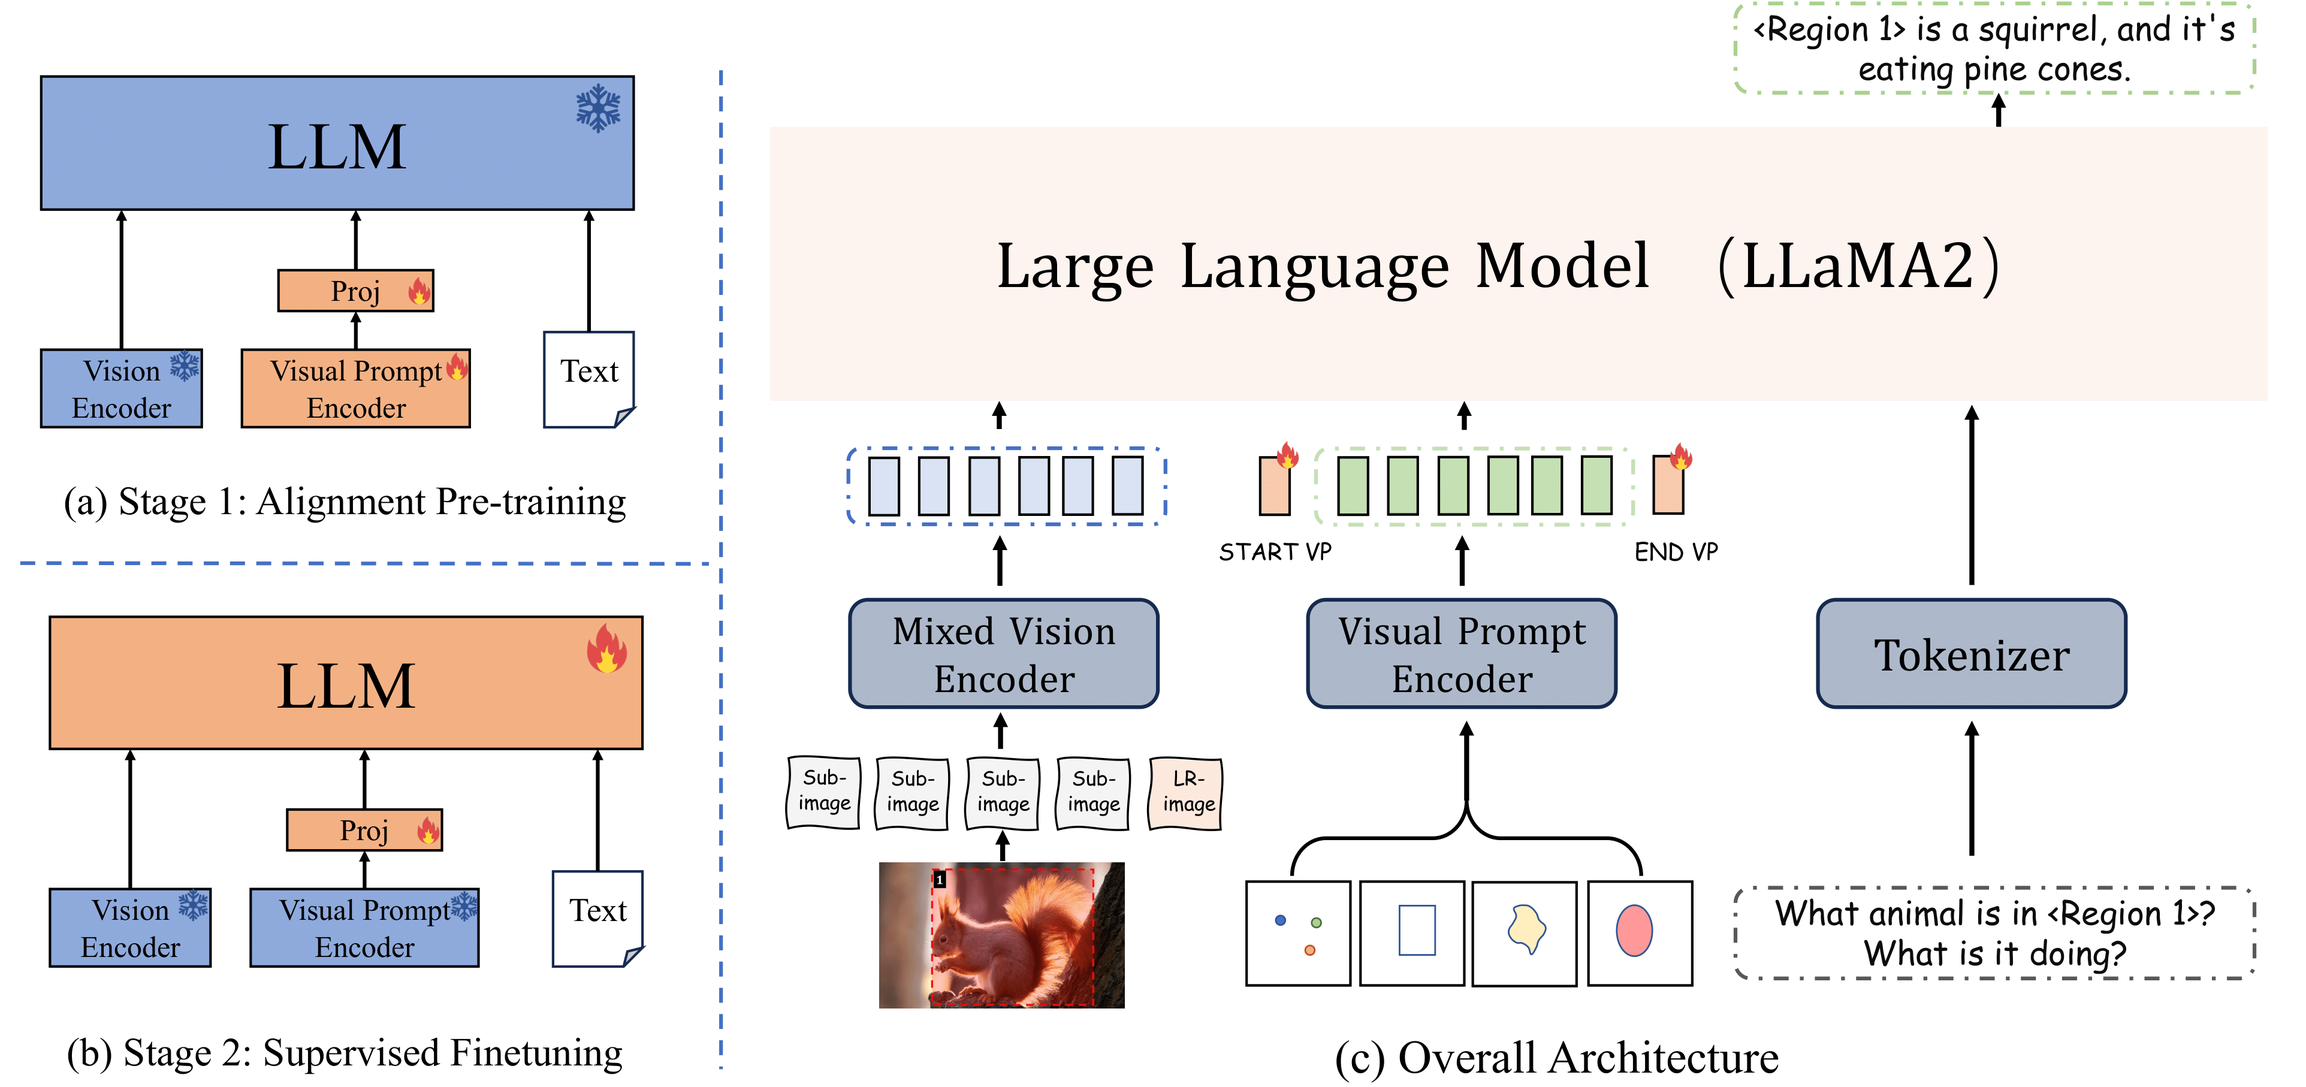
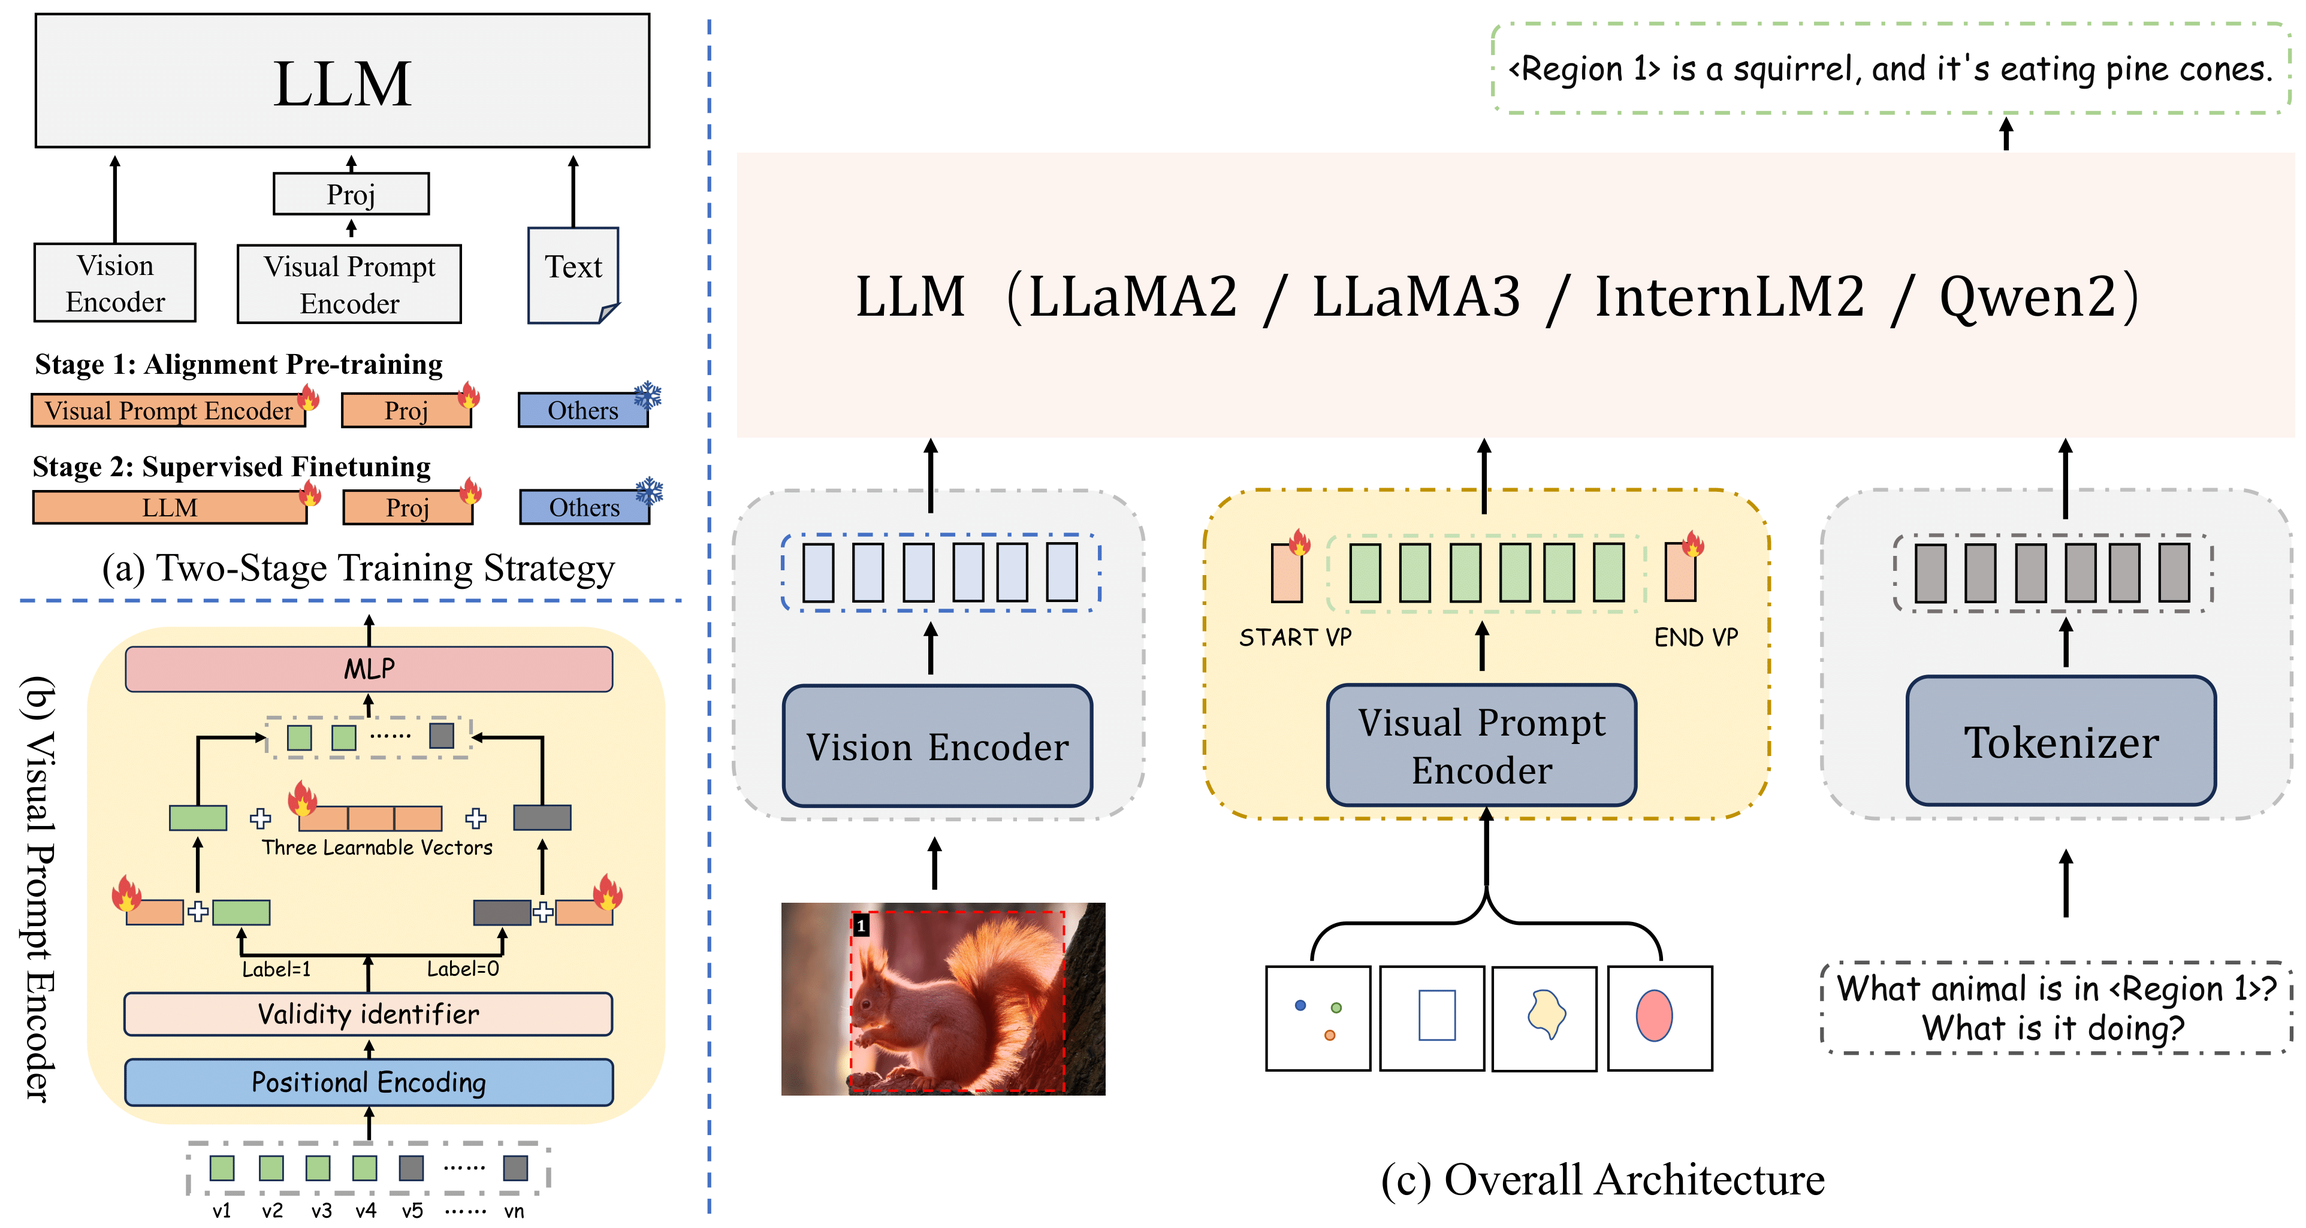
update

diff --git a/index.html b/index.html
@@ -81,12 +81,16 @@
             </span>
           </div>
 
-          <div class="is-size-5 publication-authors">
-            <span class="author-block"><sup>1</sup>Shanghai AI Laboratory</span>
-            <span class="author-block"><sup>2</sup>Peking University</span>
-            <span class="author-block"><sup>3</sup>Xi'an Jiaotong University</span>
-            <span class="author-block"><sup>4</sup>University of Wisconsin-Madison</span>
-            <span class="author-block"><sup>5</sup>The Chinese University of Hong Kong</span>
+          <div class="is-size-5 publication-authors" style="margin-top: 15px;">
+            <div style="margin-bottom: 8px;">
+              <span class="author-block" style="margin-right: 25px;"><sup>1</sup>Shanghai AI Laboratory</span>
+              <span class="author-block" style="margin-right: 25px;"><sup>2</sup>Peking University</span>
+              <span class="author-block"><sup>3</sup>Xi'an Jiaotong University</span>
+            </div>
+            <div>
+              <span class="author-block" style="margin-right: 25px;"><sup>4</sup>University of Wisconsin-Madison</span>
+              <span class="author-block"><sup>5</sup>The Chinese University of Hong Kong</span>
+            </div>
           </div>
 
           <div class="column has-text-centered">
@@ -128,7 +132,7 @@
                   <span class="icon">
                       <i class="far fa-images"></i>
                   </span>
-                  <span>MVDP-Data</span>
+                  <span>MDVP-Data</span>
                   </a>
               </span>
               <!-- MDVP-Bench Link. -->
@@ -138,7 +142,7 @@
                    <span class="icon">
                     <img src="static/images/wrench.svg" alt="Gradio Logo" style="width: 18px; height: 18px;">
                     </span>
-                  <span>MVDP-Bench</span>
+                  <span>MDVP-Bench</span>
                   </a>
               </span>
               <!-- Model Link -->
@@ -214,28 +218,23 @@
         <h2 class="title is-3">Abstract</h2>
         <div class="content has-text-justified">
           <p>
-            The interaction between humans and artificial intelligence (AI) is a crucial factor that 
-            reflects the effectiveness of multimodal large language models (MLLMs). 
-            However, current MLLMs primarily focus on image-level comprehension and limit 
-            interaction to textual instructions, thereby constraining their flexibility in usage 
-            and depth of response. In this paper, we introduce the Draw-and-Understand project: 
-            <strong>a new model</strong>, <strong>a multi-domain dataset</strong>, and <strong>a challenging benchmark</strong> for visual prompting. 
+            We present the <span class="sphinx-v">Draw-and-Understand</span> framework, exploring how to integrate visual prompting understanding capabilities 
+            into Multimodal Large Language Models (MLLMs). Visual prompts allow users to interact through multi-modal instructions,
+            enhancing the models' interactivity and fine-grained image comprehension. In this framework, we propose a general architecture 
+            adaptable to different pre-trained MLLMs, enabling it to recognize various types of visual prompts (such as points, bounding boxes,
+            and free-form shapes) alongside language understanding.
           </p>
           <p>
-            Specifically, we propose <span class="sphinx-v">SPHINX-V</span>, a new end-to-end trained Multimodal Large Language Model (MLLM) 
-            that connects a vision encoder, a visual prompt encoder and an LLM for various visual prompts 
-            (points, bounding boxes, cycle and free-form shape) and language understanding. 
-            To advance visual prompting research for MLLMs, we introduce <span class='mdvp-data'>MDVP-Data</span> and MDVP-Bench. 
-            <span class='mdvp-data'>MDVP-Data</span> features a multi-domain dataset containing 1.6M unique image-visual prompt-text 
-            instruction-following samples, including natural images, document images, OCR images, 
-            mobile screenshots, web screenshots, and multi-panel images. Furthermore, we present MDVP-Bench, 
-            a comprehensive and challenging benchmark to assess a model's capability in understanding visual 
-            prompting instructions.
+            Additionally, we introduce <span class='mdvp-data'>MDVP-Instruct-Data</span>, a multi-domain dataset featuring <b>🔥1.2 million {image, visual prompt, text} triplets</b>, 
+            including natural images, document images, scene text images, mobile/web screenshots, and remote sensing images. 
+            Building on this dataset, we introduce <span class='mdvp-data'>MDVP-Bench</span>, a challenging benchmark designed to 
+            evaluate a model’s ability to understand visual prompting instructions.  
           </p>
           <p>
-            Our experiments demonstrate <span class="sphinx-v">SPHINX-V</span>'s impressive multimodal interaction capabilities through 
-            visual prompting, revealing significant improvements in detailed region description and 
-            question-answering abilities.
+            The experimental results demonstrate that our framework can be easily and effectively applied to various MLLMs, 
+            such as SPHINX-X and LLaVA. After training with <span class='mdvp-data'>MDVP-Instruct-Data</span> and image-level instruction datasets, 
+            our <span class="sphinx-v">VP-MLLM</span> exhibit impressive multimodal interaction capabilities and pixel-level understanding,
+            while maintaining their image-level visual perception performance.
           </p>
         </div>
       </div>
@@ -250,42 +249,63 @@
       <div class="column is-seven-fifths">
         <h2 class="title is-3">
           <img src="static/images/sphinx-v-logo.png" alt="Icon" style="height: 1.1em; vertical-align: middle; margin-right: 0.1em;">
-          <span class="sphinx-v">SPHINX-V</span>: Understanding Arbitrary Format Visual Prompts and Images from Diverse Domains
+          <span class="sphinx-v">VP-MLLM</span>: Understanding Arbitrary Format Visual Prompts and Images from Diverse Domains
         </h2>
         <div class="content has-text-justified">
           <p>
-            <span class="sphinx-v">SPHINX-V</span> demonstrates robust capabilities in recognizing diverse visual prompts and images 
-            across various domains, enabling execution of complex tasks such as Visual Question Answering (VQA), 
-            Optical Character Recognition (OCR), Regional Captioning, and other intricate referring tasks. 
-            This formidable proficiency stems from its simple yet effective model architecture and training 
-            strategies:
+            We will detail the process of integrating visual prompt understanding into pre-trained MLLMs and transforming them 
+            into Visual Prompting MLLMs (<span class="sphinx-v">VP-MLLM</span>), as well as the training strategy designed to enhance alignment and fine-tuning for VP-MLLMs below.
+          </p>
+          <p>
+            For most existing MLLMs, the overall architecture consists of three components: a vision encoder, a tokenizer (text encoder), 
+            and a Large Language Model (LLM). Each modality is processed by its corresponding encoder, and the resulting tokens are concatenated 
+            and fed into the LLM for learning. Similarly, to achieve visual prompting understanding, we incorporate a visual prompt encoder
+            to embed the input visual prompts. This integration allows us to combine the image, visual prompt, and language representations 
+            and forward them collectively to the LLM:
           </p>
           <div style="text-align: center;">
             <img src="static/images/arch-1.png" alt="arch" style="height: auto; width: 100%; display: inline-block;">
           </div>
           <p></p>
           <p>
-            <span class="sphinx-v">SPHINX-V</span> comprises three components: a mixed vision encoder, 
-            a versatile visual prompt encoder, and a large language model (LLM). 
-            Given an image alongside coordinates of specific points or regions and input 
-            instruction language, we perform tokenization and encoding to derive three distinct embeddings: 
-            image embeddings <span class="tex">\( Z_i \)</span>, visual prompt embeddings <span class="tex">\( Z_v \)</span>, 
-            and text embeddings <span class="tex">\( Z_t \)</span>.
-            Subsequently, we employ two projection matrixs to convert <span class="tex">\( Z_i \)</span> and 
-            <span class="tex">\( Z_v \)</span> into 
-            language embedding tokens, aligning them with the word embedding space in the language model. 
-            Finally, we integrate the image, visual prompt, and language representations, 
-            forwarding them collectively to the LLM to attain pixel/region-level understanding capability.
-          </p>
-          <p><span class="sphinx-v">SPHINX-V</span> is trained in two stages:</p>
+            As shown in Figure(b) above, we introduce a simple yet effective visual prompt encoder that focuses on two types of visual prompts: 
+            points and bounding boxes. Initially, the encoder utilizes positional encoding for the coordinates of both 
+            points (center) and boxes (top-left and bottom-right corners). It then adds three distinct learnable embeddings for 
+            each corner and processes them through a linear layer to obtain unified output embeddings. Additionally, we accommodate 
+            a dynamic number of visual prompts as input. We first set a fixed number of visual prompt tokens (16). Based on the 
+            validity of the actual input tokens, we provide both valid and invalid tokens with a set of learnable vectors to
+            help the model discern their effective features. Finally, we employ a linear layer to map the embeddings of
+            different prompt types to the same dimension, thereby unifying the various visual prompt inputs.
+            </p>
+          <p><span class="sphinx-v">VP-MLLM</span> is trained in two stages:</p>
 
               <ul>
                 <li><strong>Stage 1: Image-Visual Prompt-Text Alignment Pre-training.</strong>
-                  <p>By employing a visual prompt encoder, we initially freeze both the pre-trained vision encoder and the pre-trained LLM. We focus on training the features of visual prompts to align with the features of image-visual prompt-text. We implement an MLP as the connector between visual prompts and language to enhance the multimodal prompting capabilities of the model.</p>
+                  <p>
+                    We initially freeze both the pre-trained vision encoder and the LLM, then focus on training the 
+                    features of visual prompts to align with those of the input image and text. Following the approach in LLaVA, 
+                    we implement an MLP to transform the visual prompt tokens into the latent space of the LLM. 
+                    We use open-source detection and segmentation datasets to create our stage 1 training data. 
+                    These datasets include a wide range of objects and label types, such as elements of the 
+                    <i>natural world (e.g., people, animals, objects)</i>, 
+                    <i>remote sensing (e.g., buildings, roads, vehicles, water bodies)</i>, 
+                    <i>document components (e.g., titles, paragraphs, images, tables)</i>,
+                    <i>OCR data (e.g., text recognition), and screenshots (e.g., icons, text, search bars)</i>. 
+                    For point visual prompts, we randomly sample pixels from semantic segmentation images, where each point 
+                    corresponds to a pixellevel label annotation. For box visual prompts, we directly use the ground truth bounding boxes from
+                    detection datasets as inputs, enabling the model to recognize their corresponding labels. With this rich and
+                    diverse data for pre-training, the model is well-equipped for visual prompting and object categorization. 
+                  </p>
                 </li>
                 
                 <li><strong>Stage 2: Multi-Task Supervised Finetuning.</strong>
-                  <p>At this stage, we load the weights trained during stage 1 and keep the vision encoder and visual prompt encoder weights frozen. We then fine-tune the visual prompt projector and the LLM model. Our focus is on enhancing <span class="sphinx-v">SPHINX-V</span>'s ability to accurately interpret user instructions and handle diverse pixel-level understanding tasks, such as detailed captioning, inter-relationship analysis, and complex reasoning.</p>
+                  <p>
+                    At this stage, we load the weights trained from stage 1 and keep the vision encoder and visual 
+                    prompt encoder weights frozen. We then fine-tune the visual prompt projector and the LLM. 
+                    This stage focus on enhancing model’s ability to accurately interpret user instructions and 
+                    handle diverse visual prompting understanding tasks, such as detailed captioning, inter-relationship
+                    analysis, and complex reasoning, while maintain the original robust vision-language global understanding capability. 
+                  </p>
                 </li>
               </ul>
 
@@ -320,7 +340,7 @@
             <p></p>
             <p>
               Above diagram displays the distribution of images drawn from various sources, including nature scenes, 
-              OCR texts, web content, mobile interfaces, documents, and multi-pane graphics. 
+              OCR texts, remote sensing scenes, web content, mobile interfaces, documents, and multi-panel graphics. 
               It also features a sample from the GPT-assisted MDVP dataset, emphasizing the diversity 
               and richness of its point-based and region-based instruction-following data.
             </p>
@@ -412,35 +432,37 @@
           Traditional Evaluating Task
         </h3>
         <p style="text-align: left; margin-bottom: 20px;">
-          In traditional evaluation tasks, <span class="sphinx-v">SPHINX-V</span> significantly 
+          For evaluation, we primarily use two popular MLLMs: SPHINX-X and LLaVA-Next, along with three model sizes: 7B, 8B, and 13B.
+          In both visual prompt-based and traditional tasks, <span class="sphinx-v">VP-MLLM</span> significantly 
           outperforms existing visual-prompt-based methods.
         </p>
         <div class="content has-text-justified">
-          <div class="image-row" style="margin-bottom: 20px;">
-            <div class="image-column">
-              <img src="static/images/ROC.png" alt="ROC" style="width: 95%;">
-              <p>Semantic Similarity and Semantic IoU of ROC(referring object classification) on LVIS and PACO.</p>
-            </div>
-            <div class="image-column">
-              <img src="static/images/OCR.png" alt="OCR" style="width: 95%;">
-              <p>Accuracy of ROC on LVIS and OCR(optical character recognition) on COCO text.</p>
-            </div>
-          </div>
-          <div class="image-row" style="margin-bottom: 20px;">
-            <div class="image-column">
-              <img src="static/images/detail-caption.png" alt="detail caption" style="width: 90%;">
-              <p>Detailed region-level captioning performance on the RefCOCOg validation set. Using GPT-4V for evaluation.</p>
-            </div>
-            <div class="image-column">
-              <img src="static/images/brief-caption.png" alt="brief caption" style="width: 90%;">
-              <p>Brief region captioning performance evaluated on
-                RefCOCOg. Using traditional evaluation metric.</p>
-            </div>
+          <div style="text-align: center; margin-bottom: 20px;">
+            <img src="static/images/exp-table1.png" alt="arch" style="height: auto; width: 90%; display: inline-block;">
+            <p>
+              Results of referring classification on LVIS and PACO, and COCO text. Calculation of Semantic
+              Similarity and Semantic IOU was performed using box visual prompts.
+            </p>
           </div>
           <div style="text-align: center; margin-bottom: 20px;">
-            <img src="static/images/VCR.png" alt="arch" style="height: auto; width: 60%; display: inline-block;">
-            <p>Validation Accuracy on VCR dataset. 
-              Q, A, R stands for Question, Answer, Rational, respectively.</p>
+            <img src="static/images/exp-table2.png" alt="arch" style="height: auto; width: 100%; display: inline-block;">
+            <p>
+              Region-level captioning performance on the validation set of RefCOCOg and performance comparison on 
+              general MLLM benchmarks including VQA and OCR.
+            </p>
+          </div>
+          <div style="text-align: center; margin-bottom: 20px;">
+            <img src="static/images/exp-table2.png" alt="arch" style="height: auto; width: 100%; display: inline-block;">
+            <p>
+              Region-level captioning performance on the validation set of RefCOCOg and performance comparison on 
+              general MLLM benchmarks including VQA and OCR.
+            </p>
+          </div>
+          <div style="text-align: center; margin-bottom: 20px;">
+            <img src="static/images/exp-table3.png" alt="arch" style="height: auto; width: 95%; display: inline-block;">
+            <p>
+              Performance on the LLaVA Bench, Ferret Bench, and our MDVP Bench.
+            </p>
           </div>
         </div>
 
@@ -463,9 +485,6 @@
           different regions, and complex reasoning. The performance of existing visual-prompt-based 
           methods on MDVP-Bench is as follows:
         </p>
-        <div style="text-align: center; margin-bottom: 20px;">
-          <img src="static/images/mdvp-bench-table.png" alt="arch" style="height: auto; width: 80%; display: inline-block;">
-        </div>
 
         
       </div>
